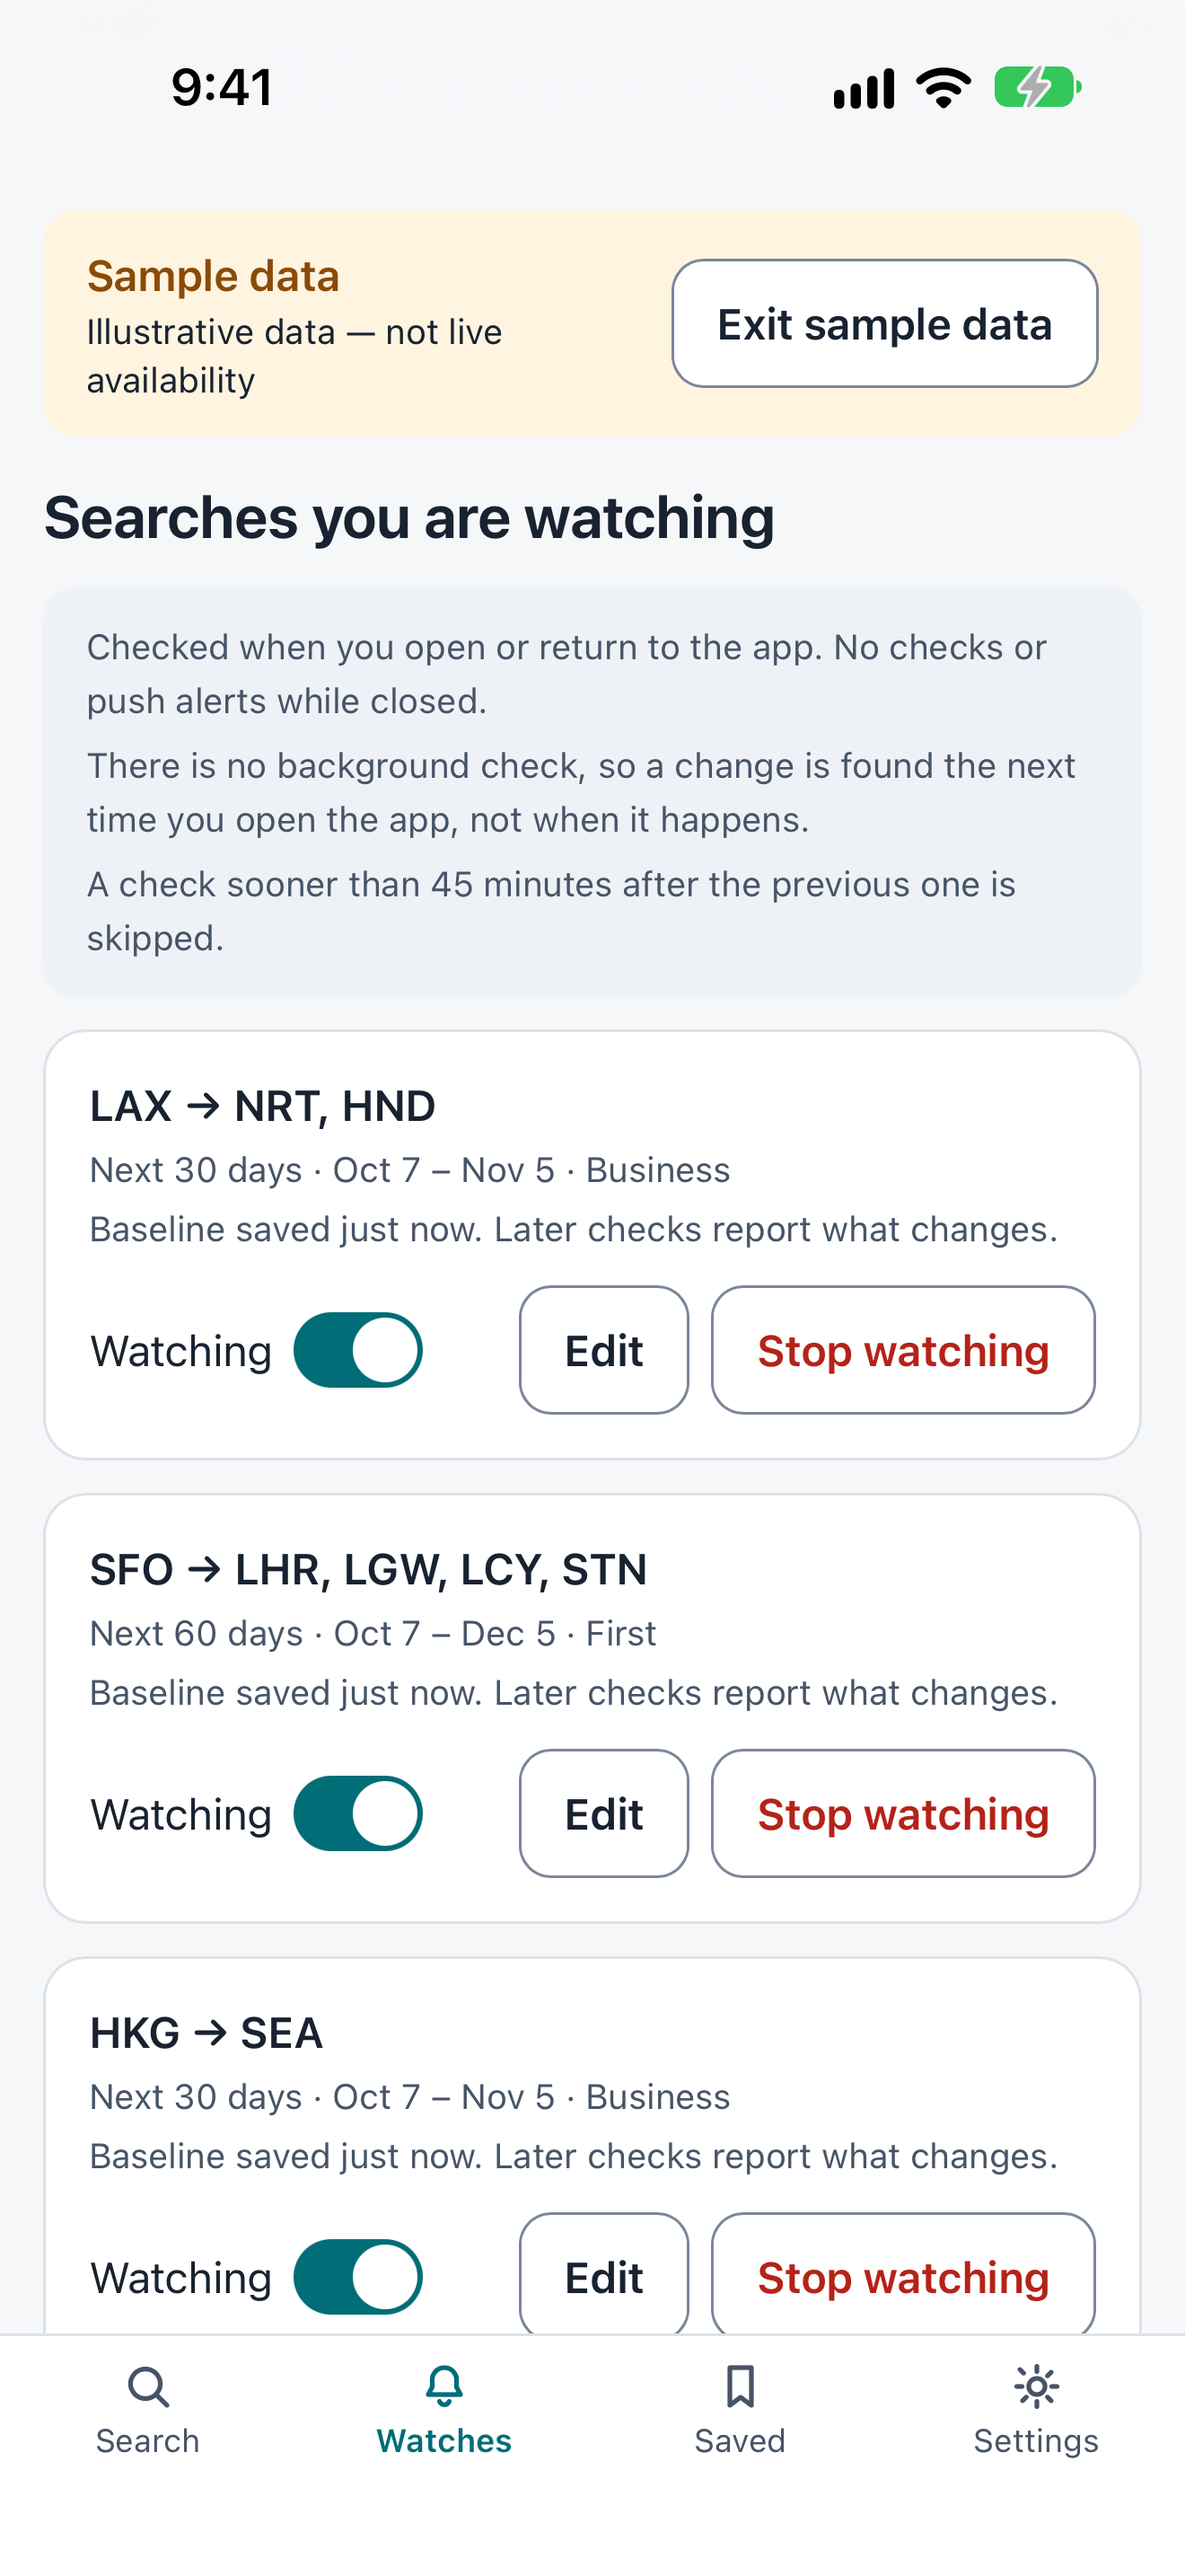
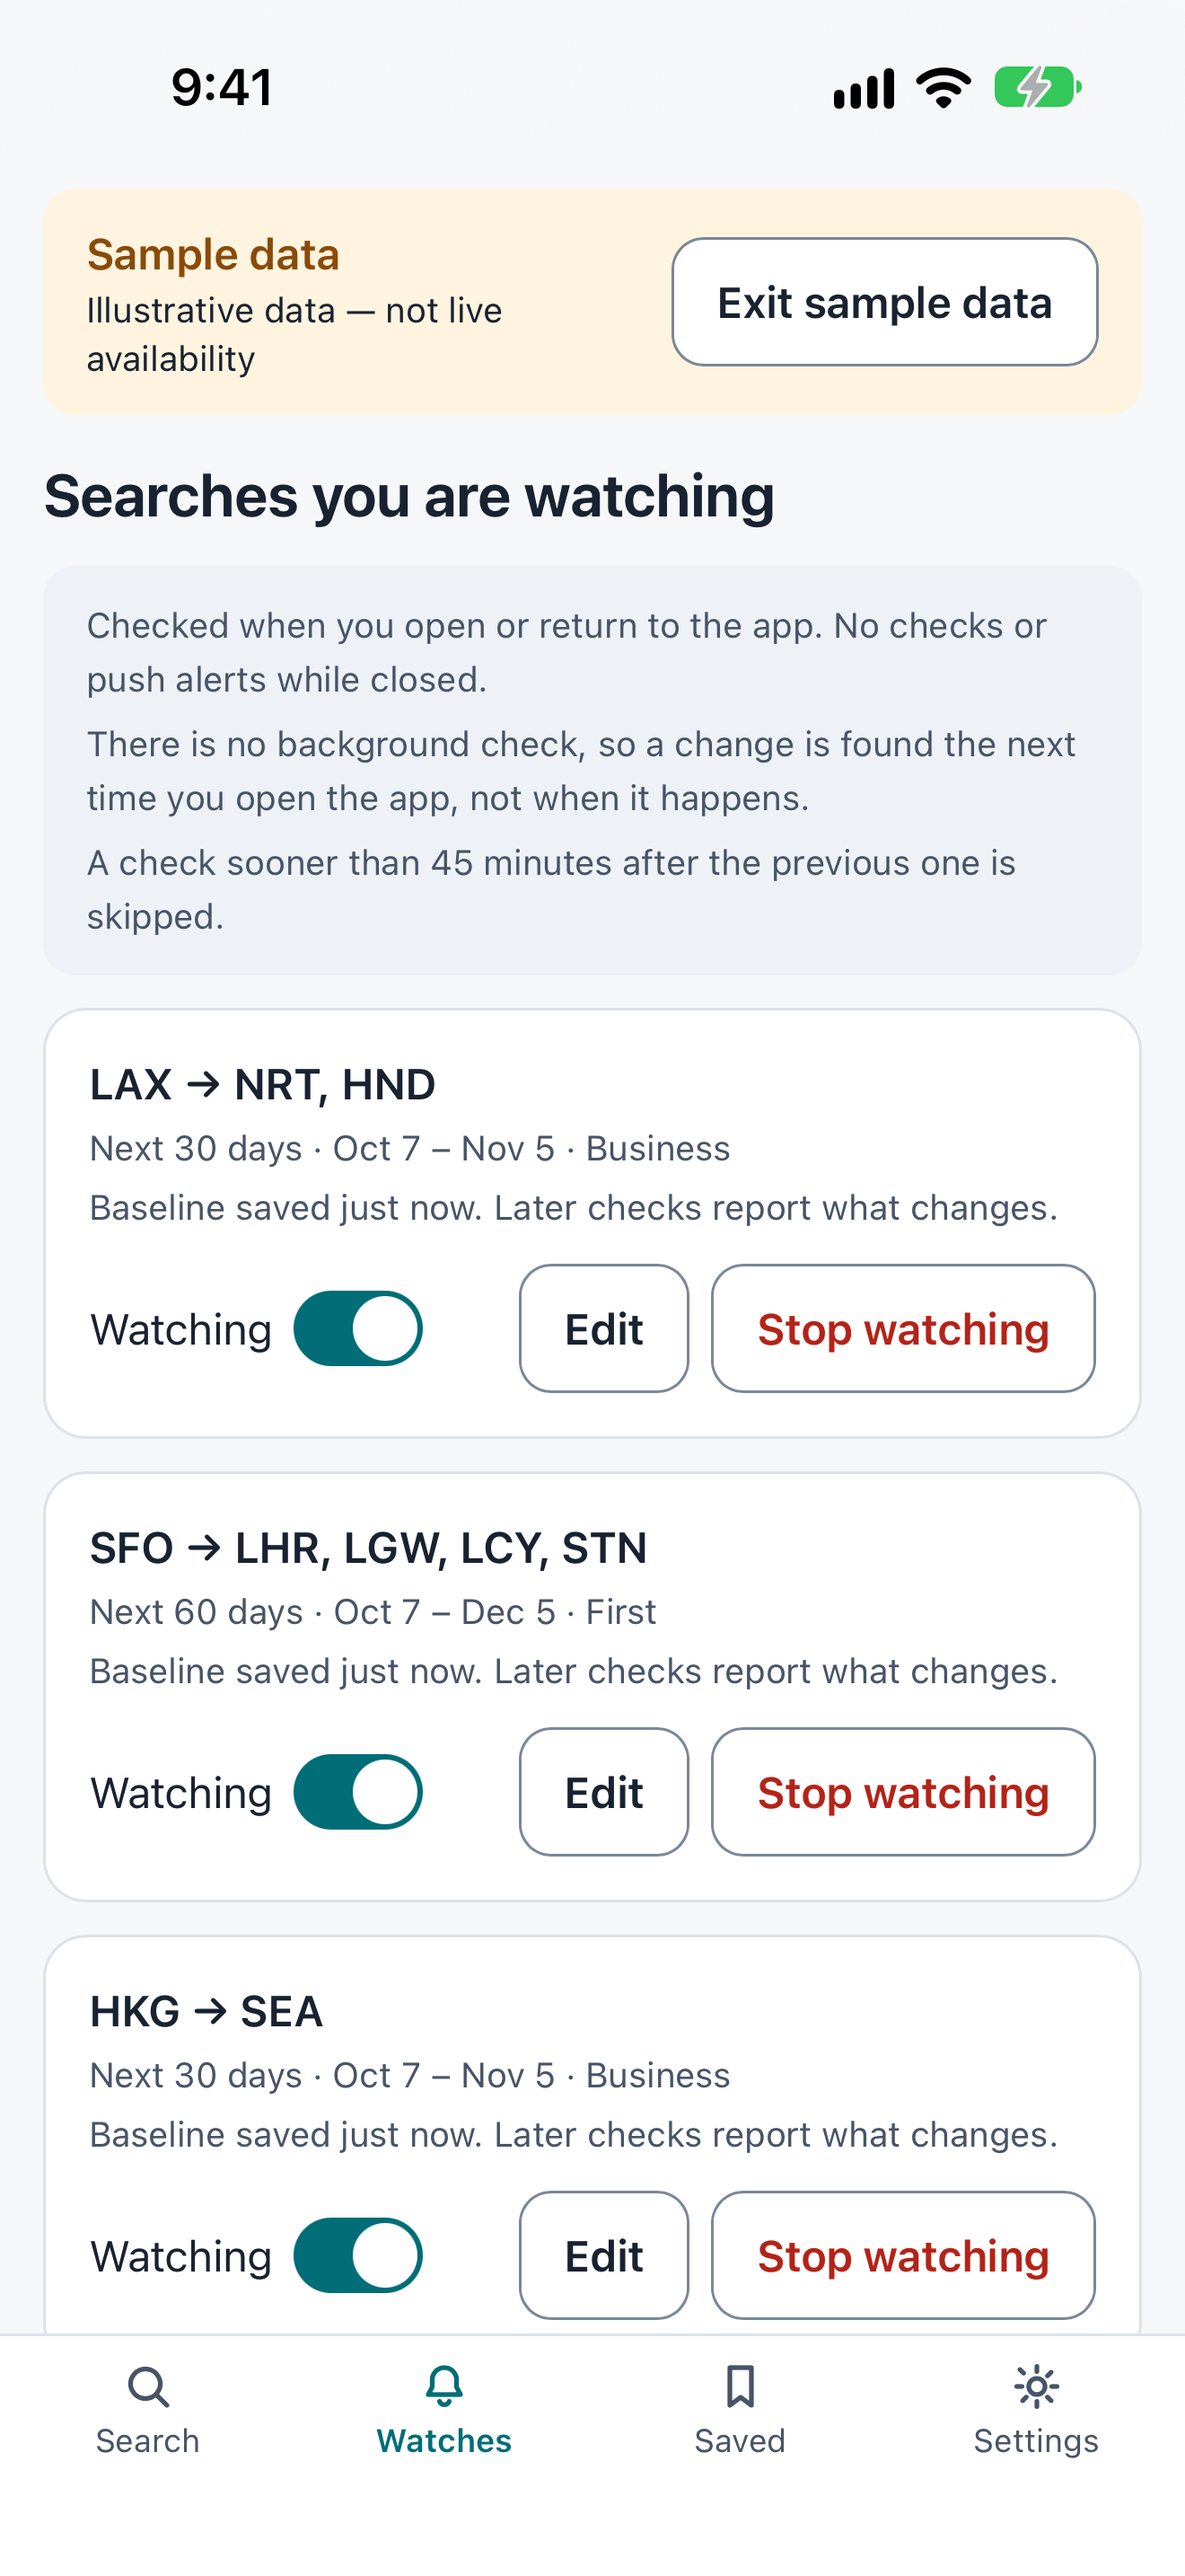
release: retake 06-watches so the third card's buttons clear the tab bar (step 23 review)
In the first 06 the third watch card's Edit and Stop watching buttons ran 3 pt under the
tab bar. Same device ("awardgrid 6.9 shots"), same store bundle, same status bar override:
the three watches were stopped and watched again in the same order, then the app was
reopened so each took its first check. At scroll 0 the new capture matched the old 06 pixel
for pixel. The Watches page was then scrolled 8 pt: every button is whole above the tab bar
and the sample banner is still 8 pt below the status bar. Same finish as the rest of the set
(RGB, simctl corner dot covered). The README records the retake.

Changed region(s): [[0.0621, 0.4034, 0.9318, 0.8999], [0.0311, 0.0621, 0.9629, 0.3724]]

diff --git a/docs/release/appstore/1.0-build4/README.md b/docs/release/appstore/1.0-build4/README.md
@@ -36,6 +36,11 @@ updated") or "Pro".
   Kong to Seattle next month, business" were watched, and the app was opened again so the watches took their first
   check (06). The screens were driven through the app's WebKit inspector (taps and typing as page events) and
   captured with `xcrun simctl io <UDID> screenshot`.
+- **06 retaken in review:** in the first 06 the third card's Edit and Stop watching buttons ran 3 pt under the tab bar.
+  On the same device and bundle, the three watches were stopped and watched again in the same order, and the app was
+  opened again so each took its first check. At scroll 0 the capture matched the first 06 pixel for pixel. The
+  Watches page was then scrolled 8 pt, so all three cards' buttons are whole above the tab bar, and the banner is
+  still 8 pt below the status bar.
 - **Sample data** is made on the device from the day it runs: these were taken on 2026-10-07, so "next month" reads as
   Oct 7 – Nov 5. Program names are real; miles, fees, seats and flight numbers are invented (decision D10).
 - **After capture**, two changes only: RGBA to RGB (every pixel was already opaque), and a 3×3-pixel black dot in the
